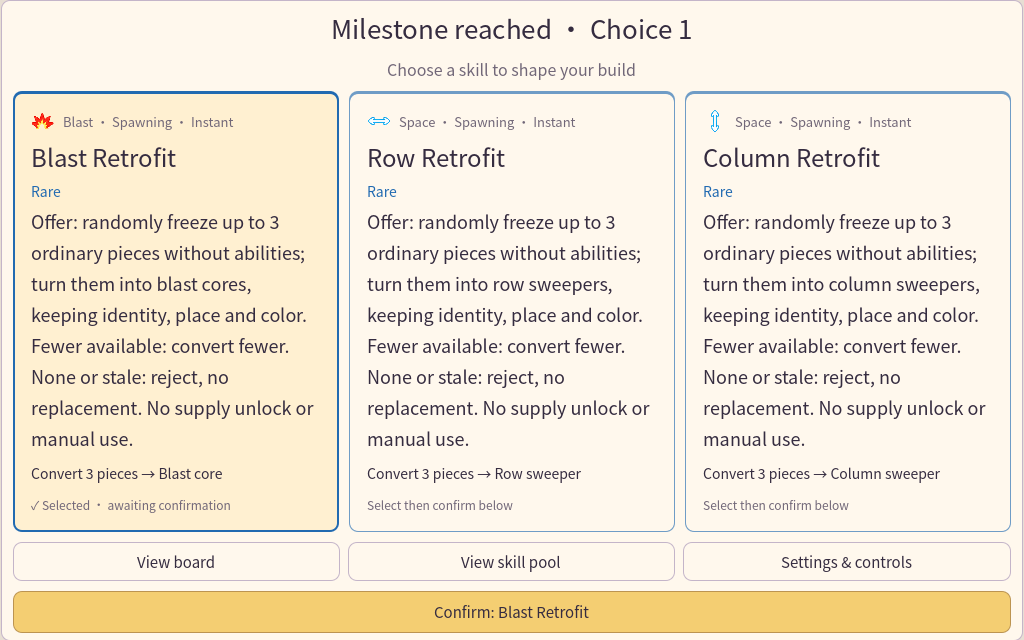
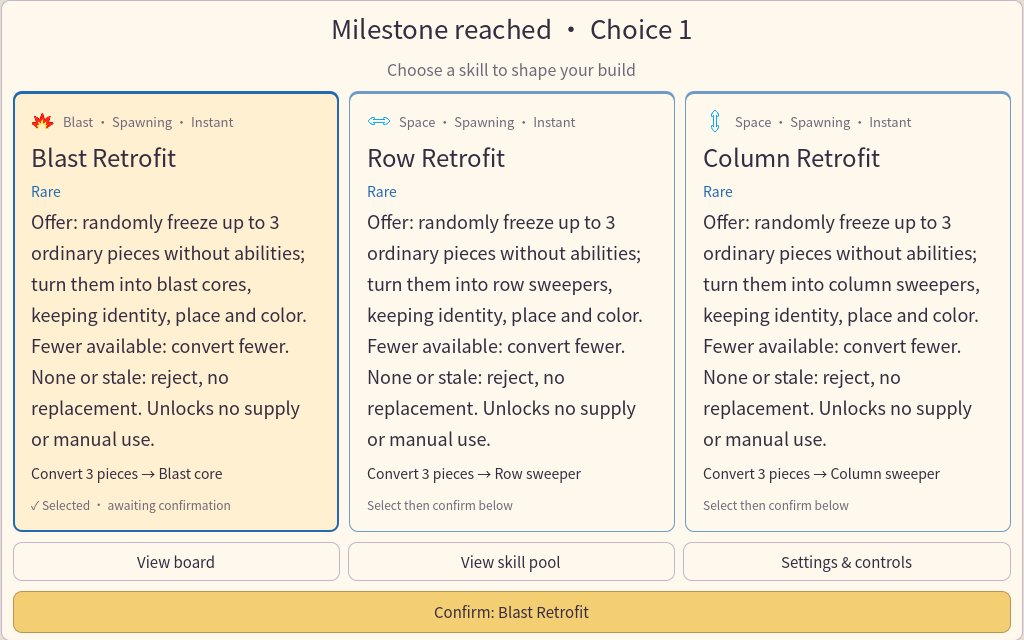
补充权限措辞修正后的定向回归证据 (#129)

diff --git a/docs/evidence/issue129-transform-descriptions/README.md b/docs/evidence/issue129-transform-descriptions/README.md
@@ -15,3 +15,5 @@
 复现：初始化锁定CoreSystem子模块并editor导入后，运行GUT指定test_transform_rule_descriptions、test_special_conversion、test_dynamic_transform_preflight、test_skill_description_coverage、test_skill_rule_description；GUI指定test_transform_rule_description_ui，设置O4_TRANSFORM_CAPTURE=1可输出截图。未重复无关整库，未声称性能/主题穷举/真人体验通过。
 
 独立复审对照实际Effect/执行器，静态无阻断；最终身份另核。按B交集成核验，#129继续部分OPEN，作者读感和整体真人体验均null。覆盖19/52不代表O4整体验收。
+
+最终权限措辞修正：00bbd810c7fbdd0e9fd56b88c628a0b04e596714将英语改为“Unlocks no supply or manual use”，明确不授予而非禁止已有权限。相对0017仅英语翻译/对应断言变化，最终定向规则+真实GPU两脚本2/2、163断言、exit0。4图已刷新，英语两图重新目检无越界；最终身份见final-manifest.json，原0017成绩保持其身份，不伪记整批重跑。
